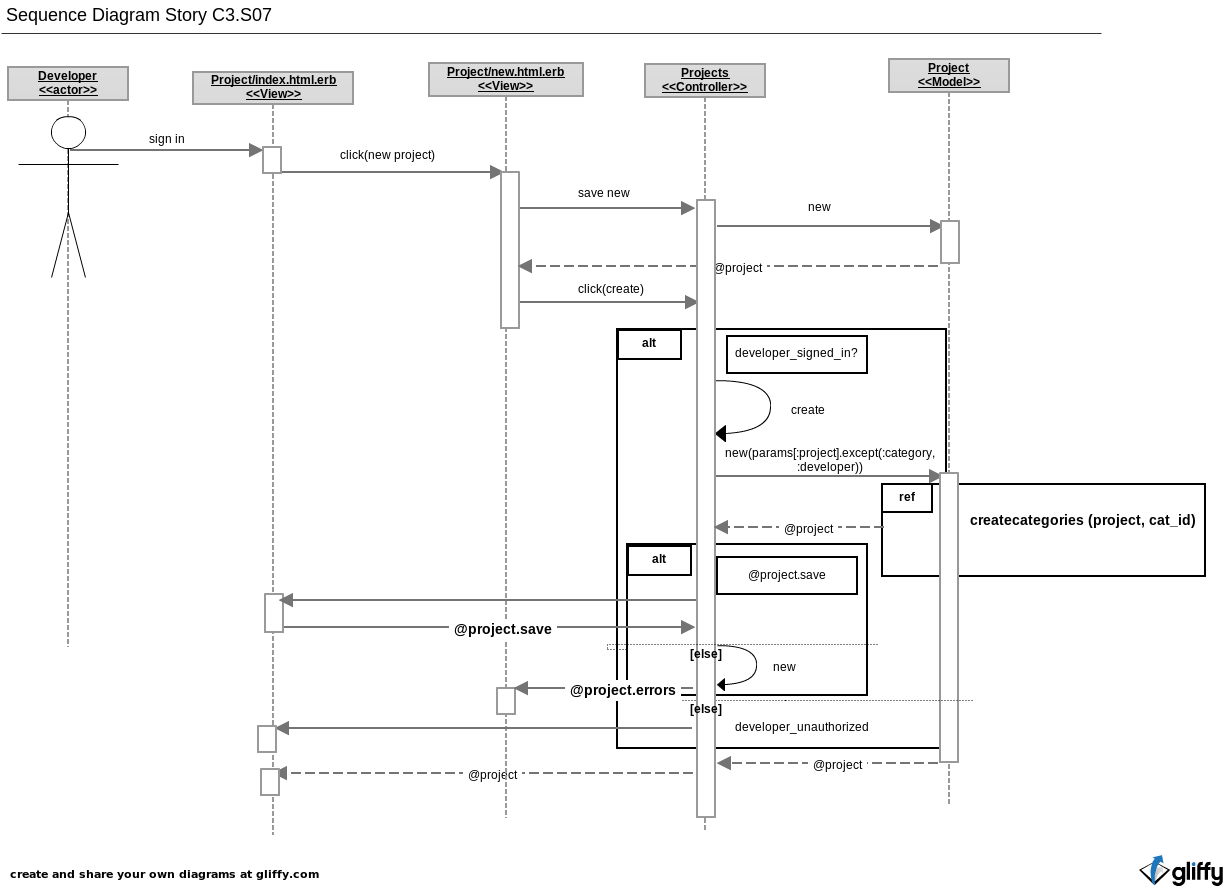
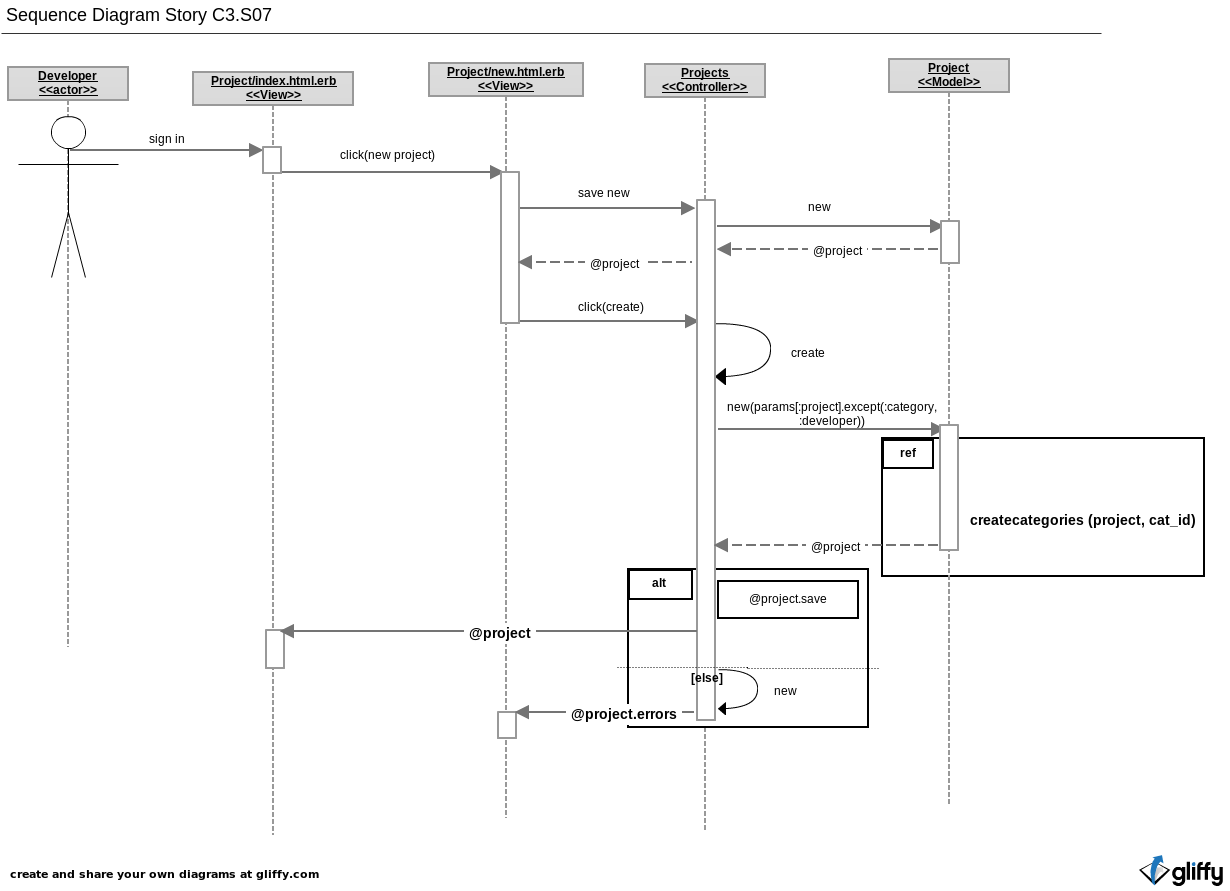
[Issue #77][Issue #205] Fixed UMLs

diff --git a/arability/app/controllers/projects_controller.rb b/arability/app/controllers/projects_controller.rb
@@ -70,25 +70,19 @@ class ProjectsController < BackendController
   # Failure:
   #   Gives status errors
   def create
-    if developer_signed_in?
-      @project = Project.new(params[:project].except(:category))
-      @project = Project.createproject(params[:project],current_developer.id)
-      respond_to do |format|
-        if @project.save
-          format.html { redirect_to "/developers/projects",
-            flash: { :success => I18n.t('views.project.flash_messages.project_was_successfully_created') } }
+    @project = Project.new(params[:project].except(:category))
+    @project = Project.createproject(params[:project],current_developer.id)
+    respond_to do |format|
+      if @project.save
+        format.html { redirect_to "/developers/projects",
+          flash: { :success => I18n.t('views.project.flash_messages.project_was_successfully_created') } }
           format.json { render json: @project, status: :created, location: @project }
-          @project.save
         else
           format.html { render action: "new" }
           format.json { render json: @project.errors, status: :unprocessable_entity }
         end
       end
-    else
-     developer_unauthorized
-     render 'pages/home'
     end
-  end
 
   # Author:
   #   Salma Farag
